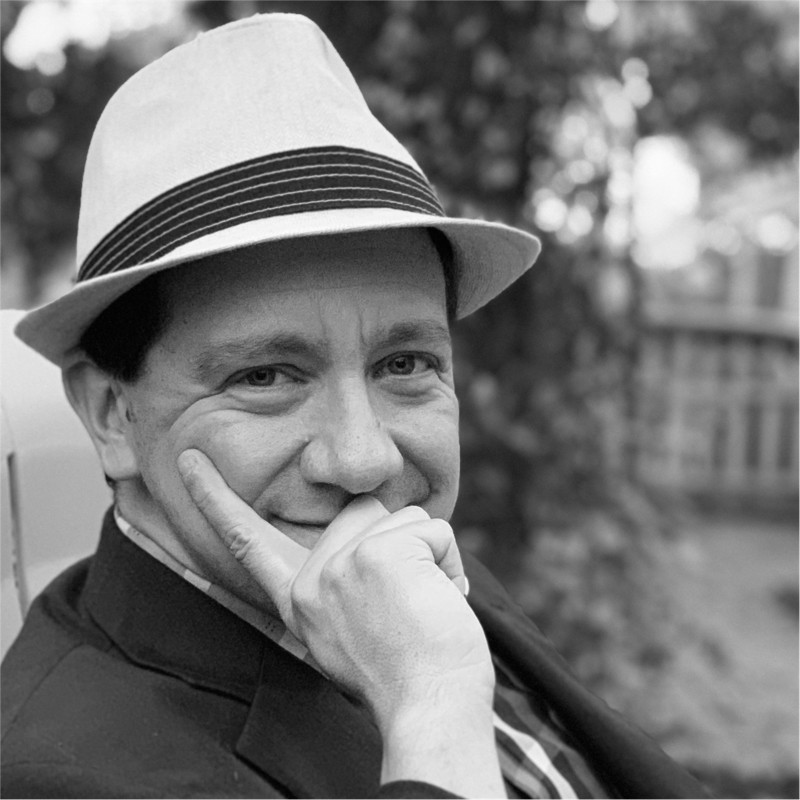
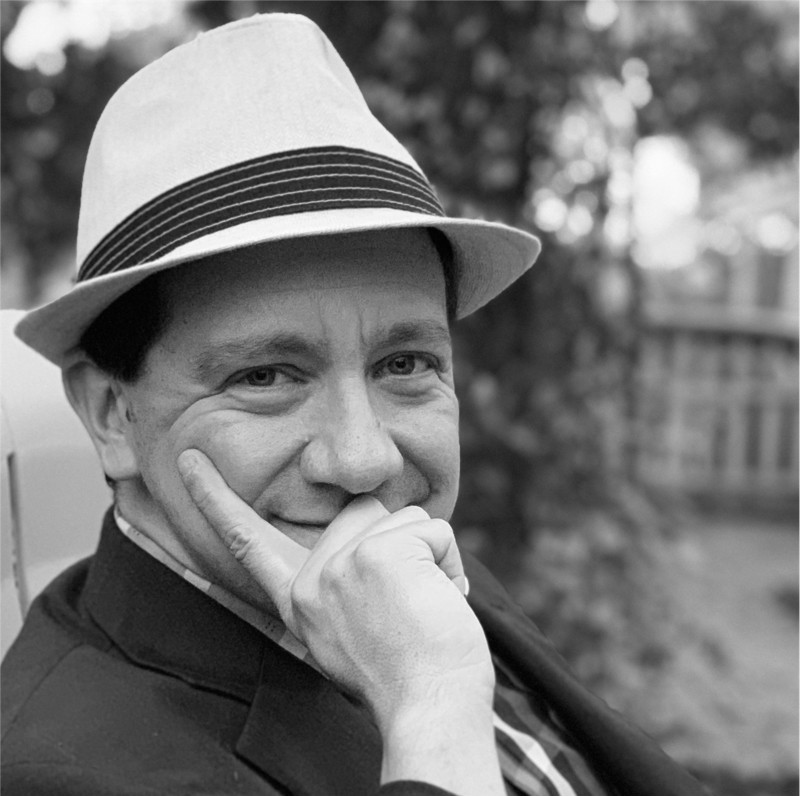
added about me text. change image size

diff --git a/colesonstatiq/theme/input/assets/css/customstyles.less b/colesonstatiq/theme/input/assets/css/customstyles.less
@@ -215,6 +215,39 @@ ul, li {
     padding-inline-start:0;
 }
 
+.about-section {
+    display: flex;
+    flex-direction: column;
+    justify-content: space-between;
+    padding: 1rem;
+    align-items: center;
+    text-align: center;
+    border-radius: 0.5em;
+    .box-shadow;
+    background-color: lighten(@color-secondary, 10%);
+}
+
+.carbon-background {
+    background:
+        linear-gradient(27deg, #151515 5px, transparent 5px) 0 5px,
+        linear-gradient(207deg, #151515 5px, transparent 5px) 10px 0px,
+        linear-gradient(27deg, #222 5px, transparent 5px) 0px 10px,
+        linear-gradient(207deg, #222 5px, transparent 5px) 10px 5px,
+        linear-gradient(90deg, #1b1b1b 10px, transparent 10px),
+        linear-gradient(#1d1d1d 25%, #1a1a1a 25%, #1a1a1a 50%, transparent 50%, transparent 75%, #242424 75%, #242424);
+    background-color: #131313;
+    background-size: 20px 20px;
+}
+
+.carbon-fibre-background {
+    background:
+        radial-gradient(black 15%, transparent 16%) 0 0,
+        radial-gradient(black 15%, transparent 16%) 8px 8px,
+        radial-gradient(rgba(255,255,255,.1) 15%, transparent 20%) 0 1px,
+        radial-gradient(rgba(255,255,255,.1) 15%, transparent 20%) 8px 9px;
+    background-color:#282828;
+    background-size:16px 16px;
+}
 .social-icons {
     ul {
         padding-left: 0;
